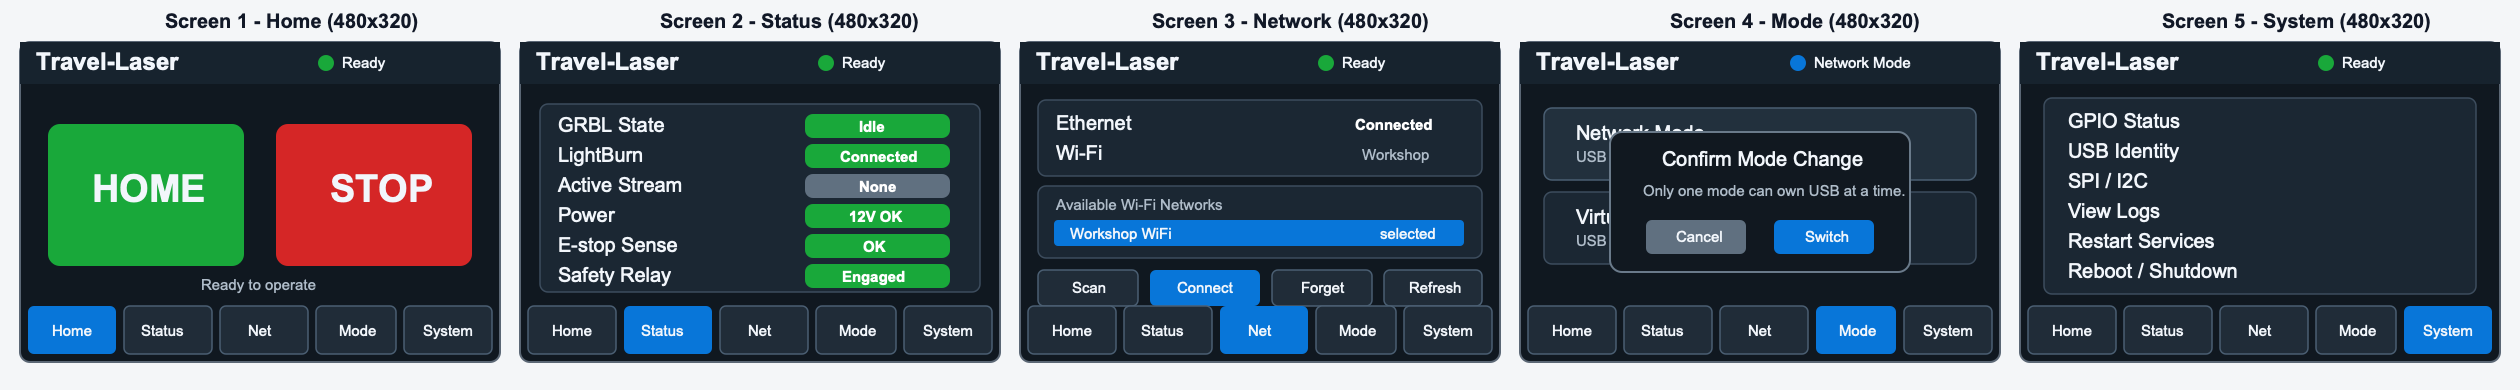
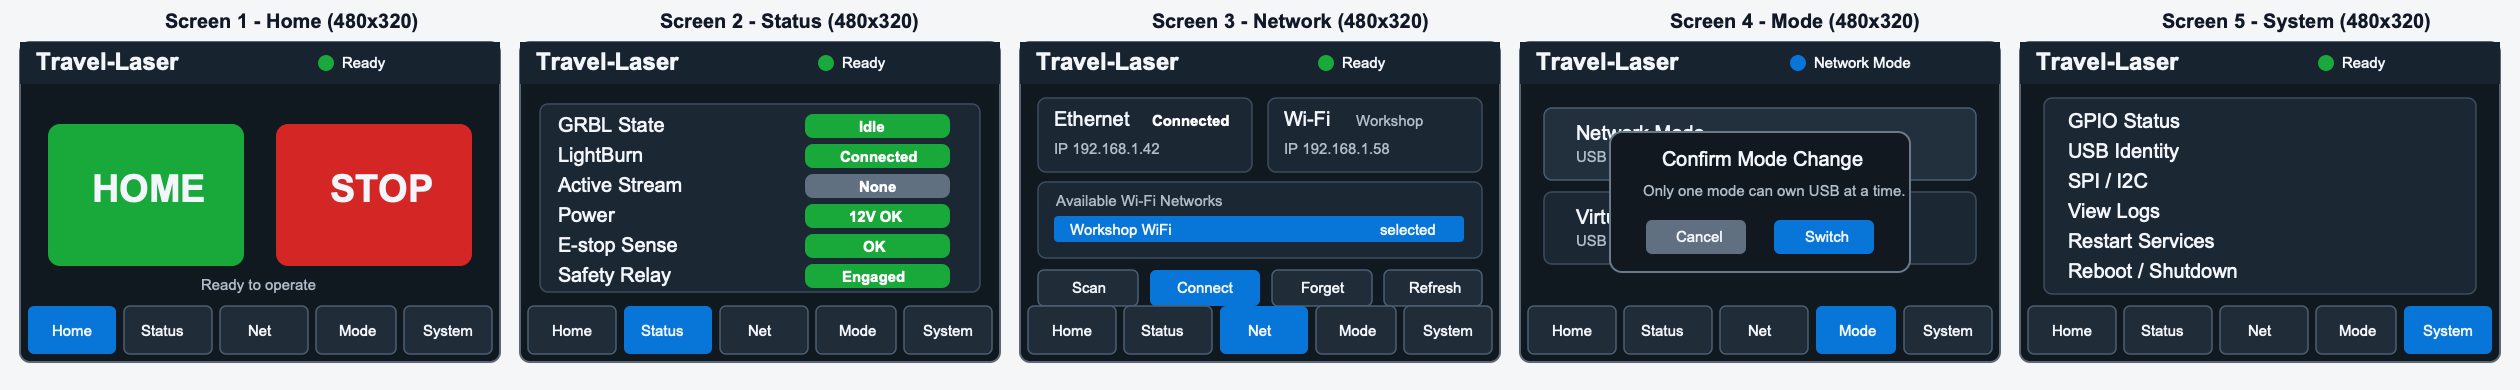
Show network IPs and document LightBurn setup

Changed region(s): [[0.4024, 0.3692, 0.5881, 0.6462], [0.4024, 0.2462, 0.5881, 0.3385], [0.4024, 0.3692, 0.4643, 0.4]]

diff --git a/docs/ui/local-touchscreen-walkthrough.html b/docs/ui/local-touchscreen-walkthrough.html
@@ -529,6 +529,8 @@
           <div class="network-grid">
             <div class="card"><strong>Ethernet</strong><br><span class="muted">Connected</span></div>
             <div class="card"><strong>Wi-Fi</strong><br><span class="muted">${selectedSsid}</span></div>
+            <div class="card"><strong>Ethernet IP</strong><br><span class="muted">192.168.1.42</span></div>
+            <div class="card"><strong>Wi-Fi IP</strong><br><span class="muted">192.168.1.58</span></div>
             <div class="card network-list">
               <strong>Available Wi-Fi Networks</strong>
               ${ssids.map((ssid) => `<button class="ssid ${ssid === selectedSsid ? "selected" : ""}" data-ssid="${ssid}"><span>${ssid}</span><span>${ssid === selectedSsid ? "selected" : "locked"}</span></button>`).join("")}

diff --git a/backend/network_manager.py b/backend/network_manager.py
@@ -10,6 +10,14 @@ class WifiNetwork:
     signal: int | None = None
 
 
+@dataclass
+class NetworkInterfaceStatus:
+    interface: str
+    connected: bool = False
+    ip_address: str | None = None
+    ssid: str | None = None
+
+
 class NetworkManager:
     def __init__(self, uplink_interface: str = "wlan1", dry_run: bool = False) -> None:
         self.uplink_interface = uplink_interface
@@ -50,6 +58,14 @@ class NetworkManager:
         await self._run_nmcli("connection", "delete", ssid)
         return True
 
+    async def interface_status(self, interface: str) -> NetworkInterfaceStatus:
+        self.actions.append(("status", interface, None))
+        if self.dry_run:
+            await asyncio.sleep(0)
+            return NetworkInterfaceStatus(interface=interface)
+        output = await self._run_nmcli("-t", "-f", "GENERAL.STATE,GENERAL.CONNECTION,IP4.ADDRESS", "device", "show", interface)
+        return _parse_interface_status(interface, output)
+
     async def _run_nmcli(self, *args: str) -> str:
         process = await asyncio.create_subprocess_exec(
             "nmcli",
@@ -61,3 +77,22 @@ class NetworkManager:
         if process.returncode != 0:
             raise RuntimeError(stderr.decode().strip() or f"nmcli failed with exit {process.returncode}")
         return stdout.decode()
+
+
+def _parse_interface_status(interface: str, output: str) -> NetworkInterfaceStatus:
+    fields: dict[str, list[str]] = {}
+    for line in output.splitlines():
+        key, separator, value = line.partition(":")
+        if not separator:
+            continue
+        fields.setdefault(key, []).append(value)
+    state = fields.get("GENERAL.STATE", [""])[0].lower()
+    connection = fields.get("GENERAL.CONNECTION", [None])[0]
+    ip_value = fields.get("IP4.ADDRESS[1]", fields.get("IP4.ADDRESS", [None]))[0]
+    ip_address = ip_value.split("/", 1)[0] if ip_value else None
+    return NetworkInterfaceStatus(
+        interface=interface,
+        connected=state.startswith("100") or "(connected)" in state,
+        ip_address=ip_address,
+        ssid=connection if connection and connection != "--" else None,
+    )

diff --git a/backend/tests/test_network_manager.py b/backend/tests/test_network_manager.py
@@ -1,0 +1,35 @@
+from backend.network_manager import _parse_interface_status
+
+
+def test_parse_interface_status_extracts_ip_and_connection():
+    status = _parse_interface_status(
+        "wlan1",
+        "\n".join(
+            [
+                "GENERAL.STATE:100 (connected)",
+                "GENERAL.CONNECTION:Workshop WiFi",
+                "IP4.ADDRESS[1]:192.168.1.42/24",
+            ]
+        ),
+    )
+
+    assert status.interface == "wlan1"
+    assert status.connected is True
+    assert status.ssid == "Workshop WiFi"
+    assert status.ip_address == "192.168.1.42"
+
+
+def test_parse_interface_status_handles_disconnected_interface():
+    status = _parse_interface_status(
+        "eth0",
+        "\n".join(
+            [
+                "GENERAL.STATE:30 (disconnected)",
+                "GENERAL.CONNECTION:--",
+            ]
+        ),
+    )
+
+    assert status.connected is False
+    assert status.ssid is None
+    assert status.ip_address is None

diff --git a/backend/tests/test_config.py b/backend/tests/test_config.py
@@ -6,6 +6,7 @@ from backend.config import config_from_dict, load_config
 def test_example_config_captures_deployment_defaults():
     config = load_config(Path("config/controller.example.yaml"))
     assert config.controller.hostname == "Travel-Laser"
+    assert config.laser.tcp_port == 23
     assert config.laser.baud == 115200
     assert config.camera.stream_type == "webrtc"
     assert config.camera.resolution == "highest_available"

diff --git a/docs/LIGHTBURN.md b/docs/LIGHTBURN.md
@@ -1,0 +1,31 @@
+# LightBurn Network Setup
+
+Travel-Laser presents the laser controller to LightBurn as a GRBL device over TCP.
+
+## Connection Target
+
+- Mode: Network mode
+- Protocol/device type: GRBL over TCP/network
+- Host/address: use the IP address shown on the local touchscreen Network page
+  - Prefer Ethernet `eth0` when connected.
+  - Use Wi-Fi `wlan1` only when Ethernet is unavailable.
+- Port: `23`
+
+The GRBL proxy listens on `0.0.0.0:23` in deployment, so either received Ethernet or Wi-Fi IP can be used by LightBurn as long as the computer can reach that network.
+
+## Ground Rules
+
+- Only one LightBurn TCP client is accepted at a time.
+- The Orange Pi owns the laser USB serial device in Network mode.
+- VirtualHere service mode must be off when LightBurn connects through TCP.
+- The proxy is intended to be transparent GRBL transport. It does not expose LightBurn file names, job names, layer names, artwork previews, or estimated time remaining.
+- If an active LightBurn stream unexpectedly disconnects, K1 drops immediately.
+
+## Local Touchscreen Support
+
+The local Network page must show the received IP address for both interfaces:
+
+- Ethernet `eth0`: connection state and received IP address
+- Wi-Fi `wlan1`: selected SSID, connection state, and received IP address
+
+The IP address shown there is the address to enter in LightBurn.

diff --git a/README.md b/README.md
@@ -9,6 +9,8 @@ LightBurn -> TCP port 23 -> Orange Pi GRBL proxy -> USB serial -> laser controll
 Orange Pi -> SPI ST7796U display + I2C FT6336U touch -> local 480x320 UI
 ```
 
+LightBurn connects to the Travel-Laser IP address shown on the local touchscreen Network page using GRBL/TCP port `23`.
+
 Service mode remains available through VirtualHere, but the GRBL proxy and VirtualHere must never own the laser USB device at the same time.
 
 ## Current Status
@@ -27,6 +29,7 @@ Implemented:
 - Display/touch abstraction layer with desktop framebuffer, ST7796U SPI, and FT6336U I2C implementations.
 - Local touchscreen app entry point and diagnostics utilities.
 - Automatic USB log export when a filesystem flash drive larger than 200 MB is inserted.
+- LightBurn TCP/GRBL setup documentation in `docs/LIGHTBURN.md`.
 
 The Orange Pi touchscreen is a local control/status panel only. Camera viewing is web UI only, and the project does not expect LightBurn-specific metadata such as file name, job name, layer names, artwork preview, or estimated time remaining. The Pi does not store or launch local job files; jobs always originate from the external computer through LightBurn/GRBL.
 

diff --git a/docs/API.md b/docs/API.md
@@ -22,7 +22,7 @@ All local touchscreen screens target `480x320` landscape. Do not design portrait
 
 - Home: machine state plus two large same-priority controls, `HOME` and `STOP`.
 - Status: GRBL state, LightBurn TCP connection/stream state, Power, E-stop Sense, Safety Relay, and Laser USB connection.
-- Network: `eth0`, `wlan1`, IP address, Wi-Fi scan, SSID selection, password prompt, connect, forget, and refresh.
+- Network: `eth0` connection state and received IP, `wlan1` selected SSID/state and received IP, Wi-Fi scan, SSID selection, password prompt, connect, forget, and refresh.
 - Mode: Network vs VirtualHere ownership. Selecting the inactive mode opens a confirmation popup before changing modes.
 - System: display/touch test, diagnostics, service controls, reboot/shutdown.
 

diff --git a/docs/NETWORKING.md b/docs/NETWORKING.md
@@ -7,5 +7,6 @@ The intended deployment uses normal uplink networking only. There is no private 
 - Ethernet uses `eth0` with route metric `100`.
 - `eth0` is preferred over `wlan1` when both uplinks are connected.
 - Remote browser access is expected through Tailscale.
+- The local touchscreen Network screen shows the received IP address for both `eth0` and `wlan1`. Use that IP address for LightBurn's GRBL/TCP connection on port `23`.
 
 `scripts/configure-network.sh` applies route metrics for `eth0` and `wlan1` with `nmcli`.

diff --git a/docs/GRBL_PROXY.md b/docs/GRBL_PROXY.md
@@ -4,6 +4,8 @@ The GRBL proxy listens on TCP port `23` in deployment and allows one LightBurn c
 
 The proxy should remain transparent and conservative around GRBL alarm/error/status strings.
 
+LightBurn should connect to the Travel-Laser IP address shown on the local touchscreen Network page, using TCP port `23`. See `LIGHTBURN.md` for setup notes.
+
 Realtime injections:
 
 - Pause: `!`
